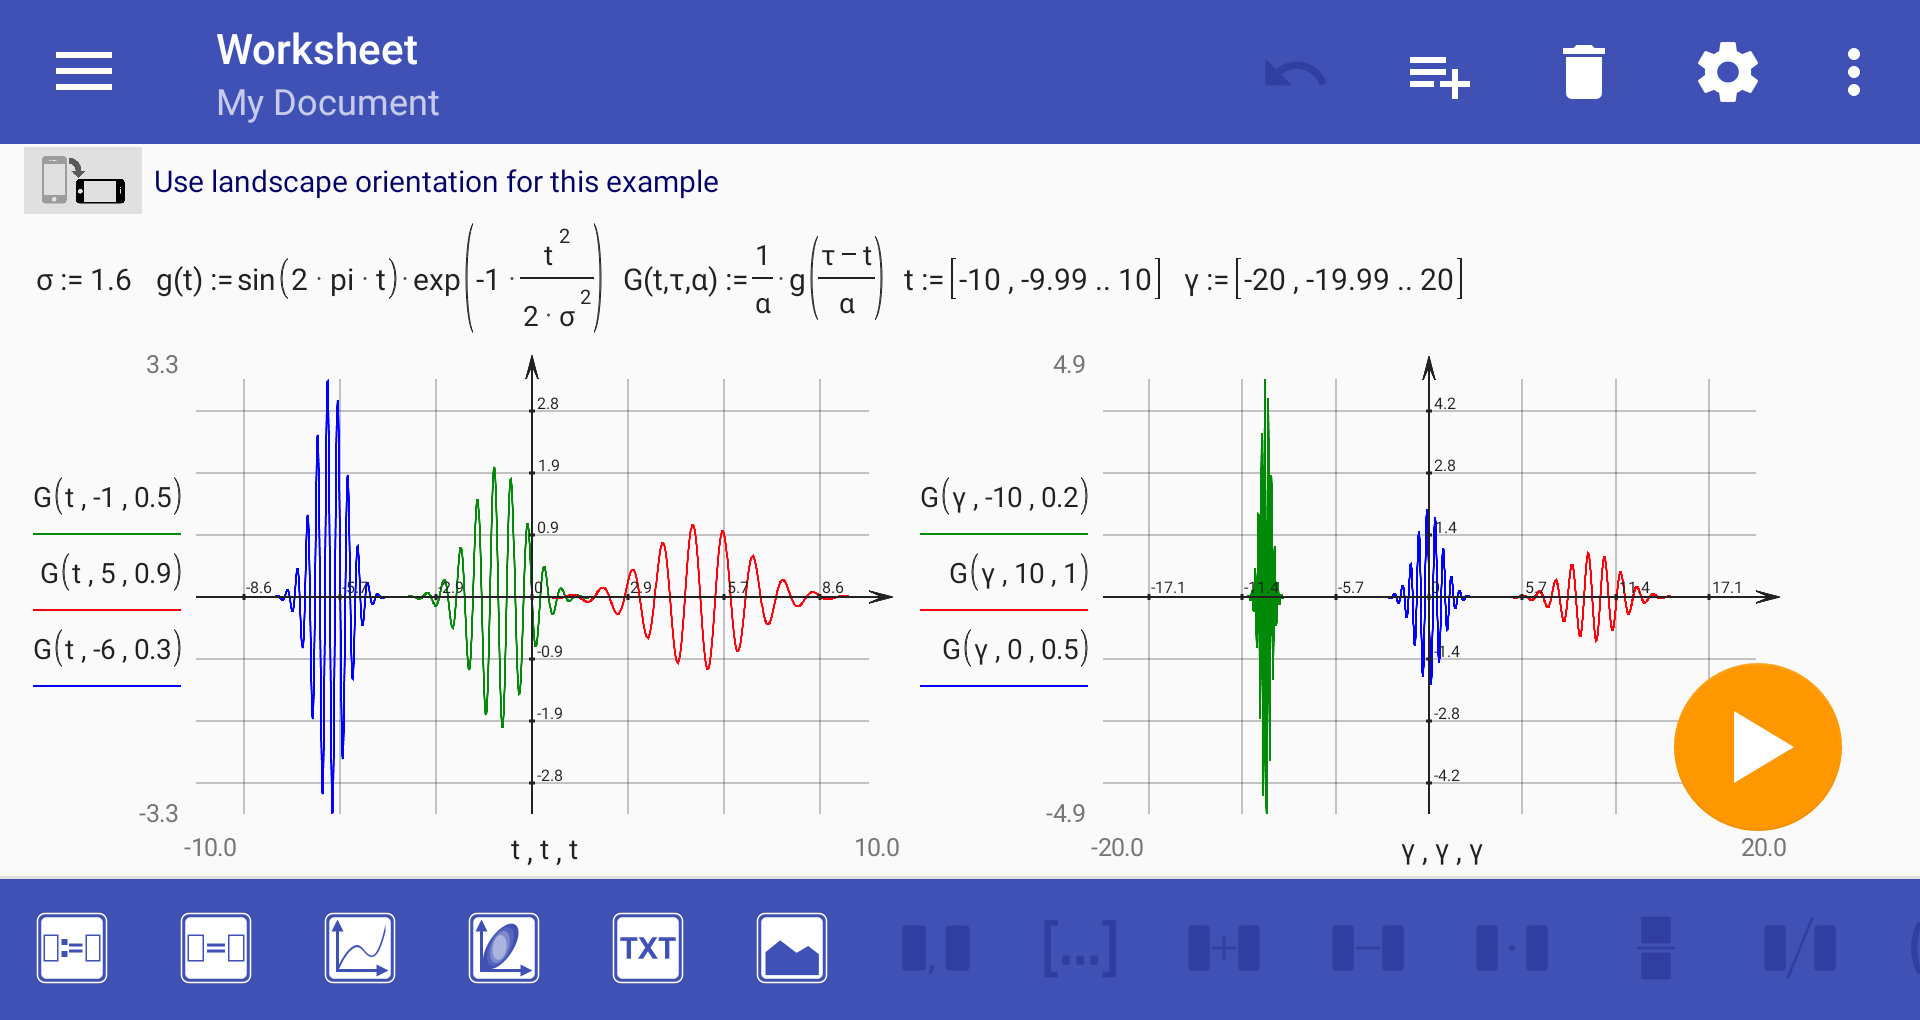
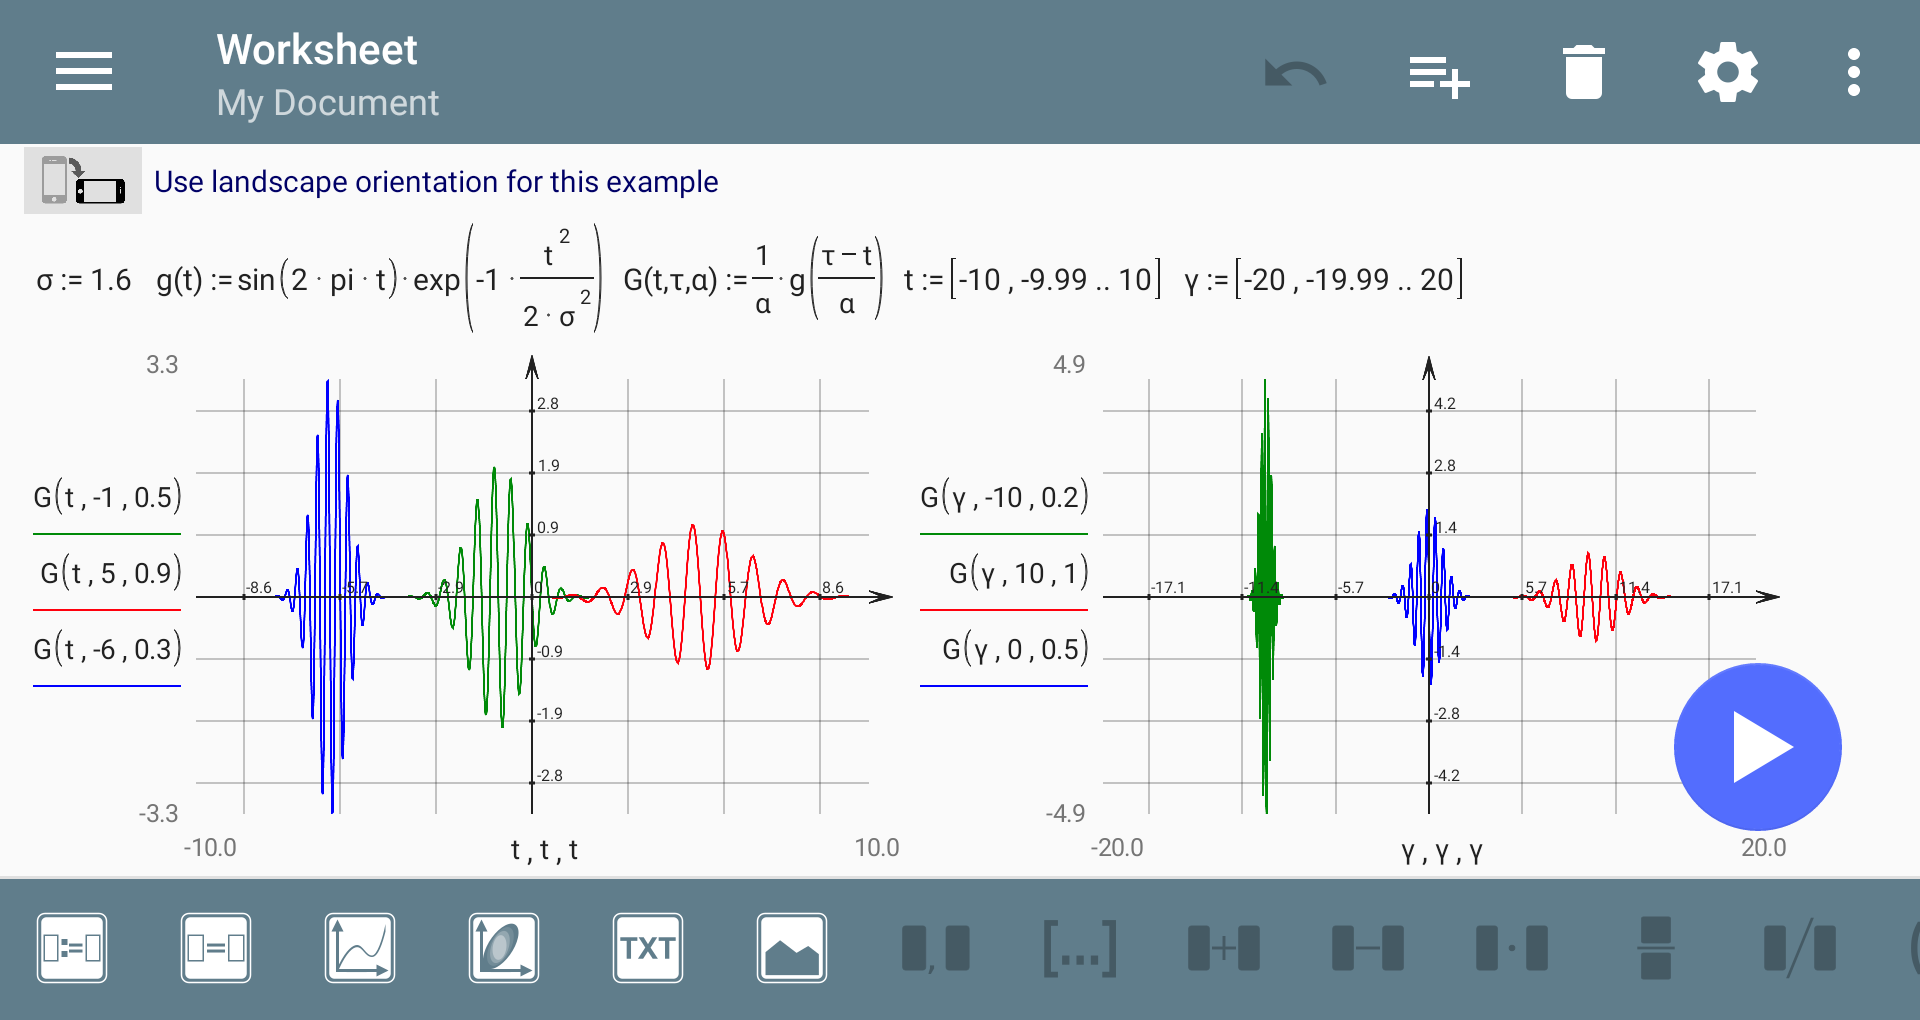
Preparation of the release 2.16

Changed region(s): [[0.0, 0.851, 1.0, 1.0], [0.0, 0.0, 1.0, 0.152], [0.875, 0.6382, 0.9688, 0.8206]]

diff --git a/README.md b/README.md
@@ -1,4 +1,4 @@
-[![License](https://img.shields.io/badge/license-GNU_GPLv3-orange.svg)](https://github.com/mkulesh/microMathematics/blob/master/LICENSE) [![Build Status](https://travis-ci.org/mkulesh/microMathematics.svg?branch=master)](https://travis-ci.org/mkulesh/microMathematics) [![Download unsigned APK from latest autobuild](https://img.shields.io/badge/APK-autobuild-blue.svg)](https://github.com/mkulesh/microMathematics/raw/autobuild/autobuild/microMathematics-v2.15.6.apk)
+[![License](https://img.shields.io/badge/license-GNU_GPLv3-orange.svg)](https://github.com/mkulesh/microMathematics/blob/master/LICENSE) [![Build Status](https://travis-ci.org/mkulesh/microMathematics.svg?branch=master)](https://travis-ci.org/mkulesh/microMathematics) [![Download unsigned APK from latest autobuild](https://img.shields.io/badge/APK-autobuild-blue.svg)](https://github.com/mkulesh/microMathematics/raw/autobuild/autobuild/microMathematics-v2.16.apk)
 
 # <img src="https://github.com/mkulesh/microMathematics/blob/master/images/icon.png" align="center" height="48" width="48"> "microMathematics Plus - Extended visual calculator"
 
@@ -18,6 +18,7 @@ Not only students, but also everybody who likes mathematics or needs more than j
 * Verification, validation, documentation and re-use of mathematical calculations
 * Works on smartphone or tablet in portrait and landscape mode
 * Supports all commonly used mathematical operations
+* Supports data import from ASCII files
 * Mathematical expressions are written in an intuitive and naturally readable form
 * Powerful mathematical touch-screen editor with undo function makes editing easier
 * You can do multiple calculations and subsequently correct or change all used formulas
@@ -26,6 +27,7 @@ Not only students, but also everybody who likes mathematics or needs more than j
 * You can store your document on SD card and export it into [LaTeX format](https://www.latex-project.org/) or an image (SD writing permission is needed)
 * SD card on Android 6+ is also supported
 * The app contains detailed "How to use" page and several examples
+* Supports different color themes
 
 ## Screenshots:
 

diff --git a/autobuild/README.md b/autobuild/README.md
@@ -24,7 +24,7 @@ cd microMathematics_autobuild
 
 * Next, we copy the newly created APK from gradle output directory `./app/build/outputs/apk` into this directory of the `autobuild` branch
 ```
-mv ../microMathematics/app/build/outputs/apk/microMathematics-v2.15.6.apk ./autobuild
+mv ../microMathematics/app/build/outputs/apk/microMathematics-v2.16.apk ./autobuild
 ```
 
 * Next, we prepare git for push into a remote repository using github personal access token as a "Travis CI" user:
